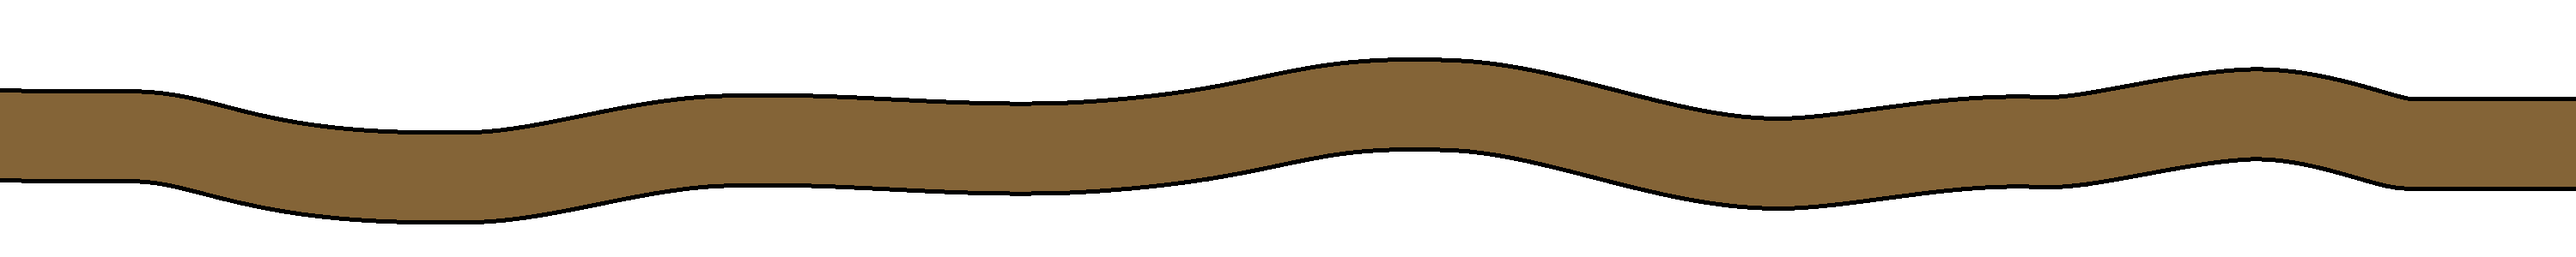
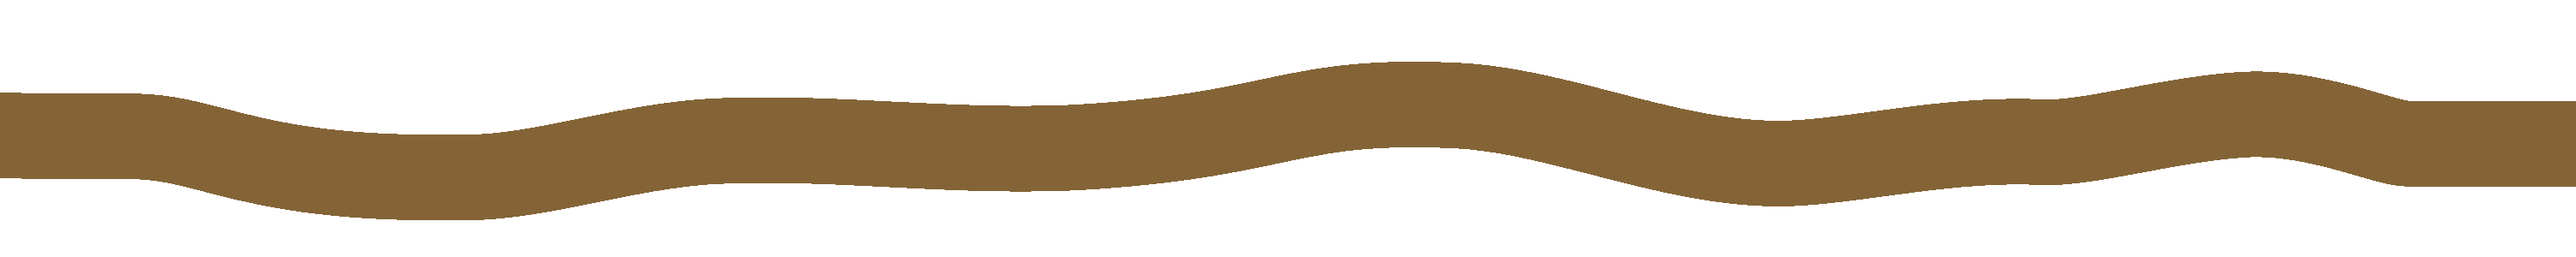
refactoring and better road images
better organization and system for drawing ways
removed outlines from roads, made them look weird

diff --git a/Scripts/MapDrawer.cs b/Scripts/MapDrawer.cs
@@ -1,6 +1,7 @@
 using Godot;
 using System;
 using System.Collections.Generic;
+using System.Data.Common;
 using System.Linq;
 using System.Xml.Linq;
 
@@ -24,6 +25,7 @@ public partial class MapDrawer : Node2D
             Node2D wayNode = CreateWayNode(way, mapWorldHeight, mapWorldWidth);
             if (wayNode != null)
             {
+                GD.Print("adding child");
                 AddChild(wayNode);
             }
         }
@@ -33,16 +35,109 @@ public partial class MapDrawer : Node2D
 
     public Node2D CreateWayNode(OsmWay way, decimal mapWorldHeight, decimal mapWorldWidth)
     {
-        ElementStyle wayStyle = ElementStyle.GetWayStyle(way);
-
-        // don't draw what we don't want to draw
-        if (wayStyle == null)
+        // check if invisible
+        if (!way.visible)
         {
             return null;
         }
 
-        Node2D wayNode;
+        // check if building
+        if (way.tags.ContainsKey("building"))
+        {
+            return CreateBuilding(way, mapWorldHeight, mapWorldWidth);
+        }
+        // check if road
+        else if (way.tags.ContainsKey("highway"))
+        {
+            return CreateRoad(way, mapWorldHeight, mapWorldWidth);
+        }
+        // check if land
+        else if (way.tags.ContainsKey("landuse") || way.tags.ContainsKey("leisure"))
+        {
+            return CreateLand(way, mapWorldHeight, mapWorldWidth);
+        }
 
+        // we don't care if it's not what on of these
+        return null;
+    }
+
+    public Polygon2D CreateBuilding(OsmWay way, decimal mapWorldHeight, decimal mapWorldWidth)
+    {
+        return null;
+    }
+
+    public Line2D CreateRoad(OsmWay way, decimal mapWorldHeight, decimal mapWorldWidth)
+    {
+        if (way.tags.TryGetValue("highway", out string highway))
+        {
+            // exclude footways and paths
+            if (highway == "footway" || highway == "path")
+            {
+                return null;
+            }
+
+            // TODO: also add dirt road for smaller highways (need to make dirt road look cleaner too)
+
+            GD.Print(GetPointsFromWay(way, mapWorldHeight, mapWorldWidth));
+            // create stone road
+            return new Line2D()
+            {
+                Points = GetPointsFromWay(way, mapWorldHeight, mapWorldWidth),
+                Texture = (Texture2D)GD.Load("res://Images/StoneRoad.png"),
+                TextureMode = Line2D.LineTextureMode.Tile,
+                TextureRepeat = TextureRepeatEnum.Enabled,
+                Width = 25,
+                VisibilityLayer = 2
+            };
+        }
+
+        return null;
+    }
+
+    public Polygon2D CreateLand(OsmWay way, decimal mapWorldHeight, decimal mapWorldWidth)
+    {
+        if (way.tags.TryGetValue("landuse", out string landuse))
+        {
+            if (landuse == "grass")
+            {
+                // make grass green
+                return new Polygon2D()
+                {
+                    Polygon = GetPointsFromWay(way, mapWorldHeight, mapWorldWidth),
+                    VisibilityLayer = 3,
+                    Color = Colors.SeaGreen
+                };
+            }
+        }
+        else if (way.tags.TryGetValue("leisure", out string leisure))
+        {
+            if (leisure == "park")
+            {
+                // make park green
+                return new Polygon2D()
+                {
+                    Polygon = GetPointsFromWay(way, mapWorldHeight, mapWorldWidth),
+                    VisibilityLayer = 1,
+                    Color = Colors.SeaGreen
+                };
+            }
+        }
+        else if (way.tags.TryGetValue("water", out string water))
+        {
+            // make water blue
+            return new Polygon2D()
+            {
+                Polygon = GetPointsFromWay(way, mapWorldHeight, mapWorldWidth),
+                VisibilityLayer = 1,
+                Color = Colors.MediumBlue
+            };
+        }
+
+        return null;
+    }
+
+    public Vector2[] GetPointsFromWay(OsmWay way, decimal mapWorldHeight, decimal mapWorldWidth)
+    {
         // get points from node positions
         Vector2[] points = way.nodeChildren
             .Select((node) =>
@@ -52,49 +147,7 @@ public partial class MapDrawer : Node2D
             })
             .ToArray();
 
-        // check if the way goes back to the beginning, meaning its a polygon
-        if (way.nodeChildIDs[0] == way.nodeChildIDs.Last())
-        {
-            Polygon2D wayPolygon = new Polygon2D
-            {
-                // settings to display line properly
-                TextureRepeat = TextureRepeatEnum.Enabled,
-
-                // styling
-                Color = wayStyle.color,
-                Texture = wayStyle.texture,
-
-                // set polygon vertices to node positions
-                Polygon = points,
-            };
-
-            // return this new polygon
-            wayNode = wayPolygon;
-        }
-        else // way is a line
-        {
-            Line2D wayLine = new Line2D
-            {
-                // settings to display line properly
-                TextureMode = Line2D.LineTextureMode.Tile,
-                TextureRepeat = TextureRepeatEnum.Enabled,
-                Width = 25,
-
-                // styling
-                DefaultColor = wayStyle.color,
-                Texture = wayStyle.texture,
-
-                // set line points to node positions
-                Points = points
-            };
-
-            // return this new line
-            wayNode = wayLine;
-        }
-
-        wayNode.VisibilityLayer = wayStyle.visibilityLayer;
-
-        return wayNode;
+        return points;
     }
 
     public Vector2 WorldToGamePosition(decimal latitude, decimal longitude, decimal minLatitude, decimal minLongitude, decimal mapWorldHeight, decimal mapWorldWidth)
